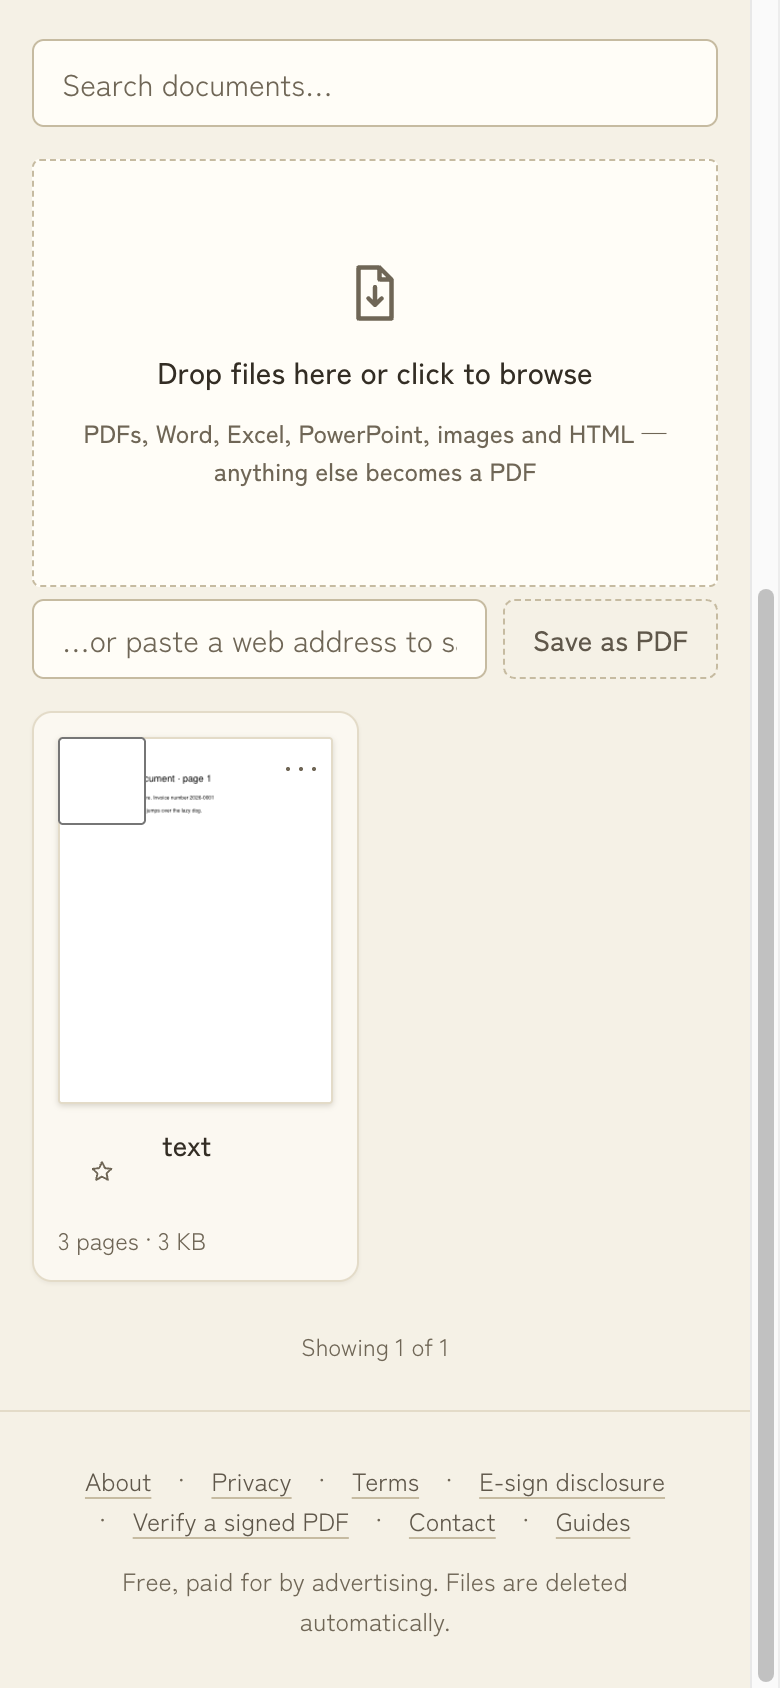
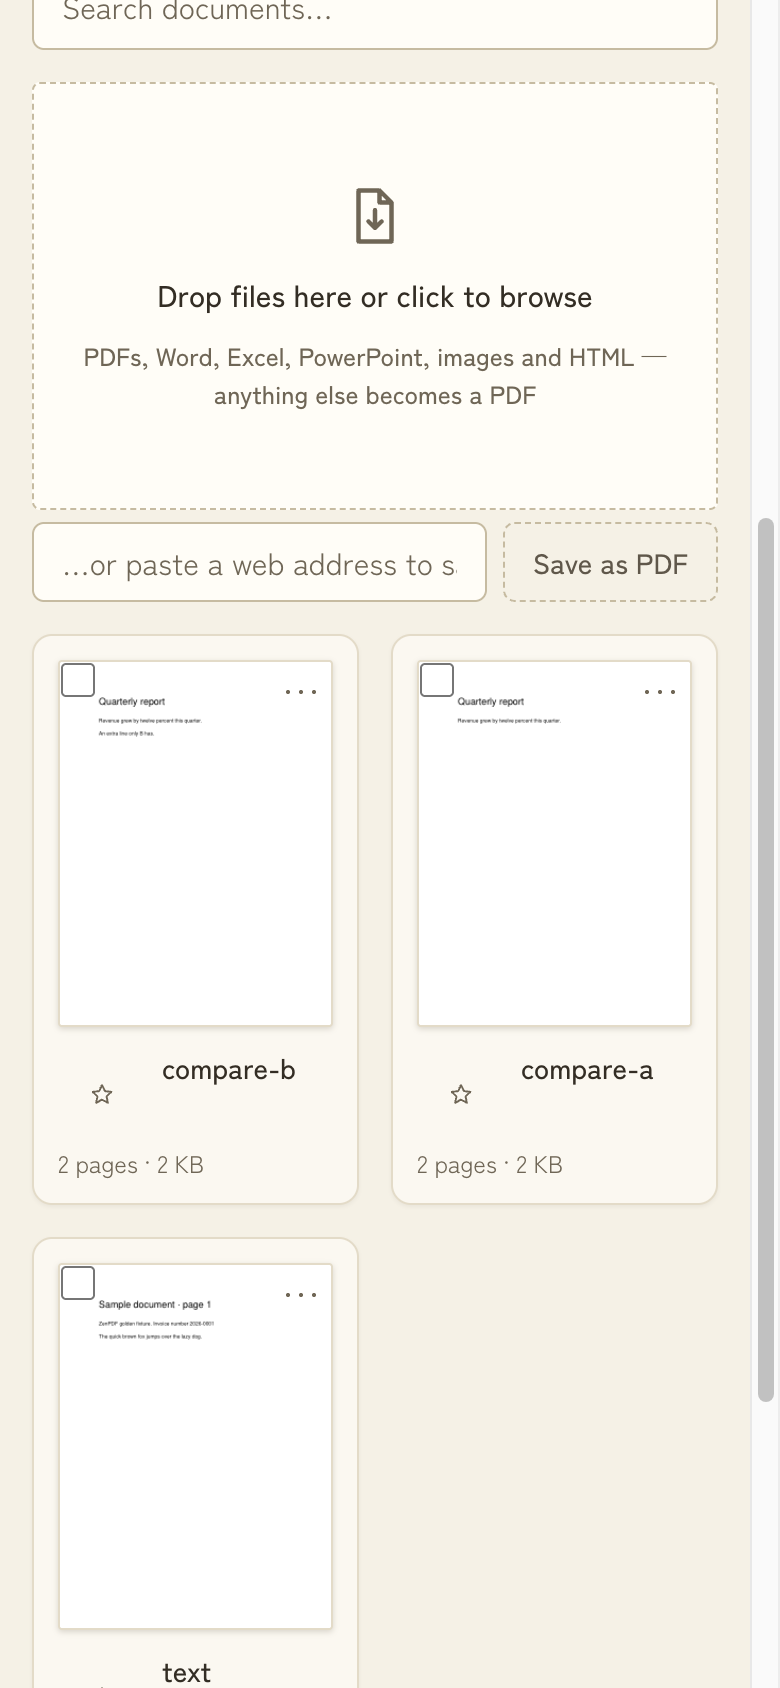
fix(dashboard): the 44 px floor is a target, not a painted checkbox
The card's select checkbox was given §6's floor as a size, and a native
checkbox scaled to 44 px paints a 44 px empty square — over the thumbnail on a
164 px card it reads as a rendering fault, not a control. Seen in the browser
in both themes, which is what the both-mode rule is for.

It sits in a 44 px `<label>` now: the platform keeps the box, the label carries
the target. That is the answer §3 already gives for the OCR rows, where the box
is 17 and the row around it is 44.

The first version of this fix moved the *desk* checkbox 6 px, which §10
forbids. Anchored per breakpoint instead: at the card corner below `md`, where
the label centres the box at (15, 15) against the (12, 12) it has always had,
and back to the desk's own inset at `md`, measured unmoved at (293, 413).

Contract §4 gains the rule and the §11 row records the reverted version too.

diff --git a/frontend/src/app/features/dashboard/dashboard.html b/frontend/src/app/features/dashboard/dashboard.html
@@ -174,9 +174,19 @@
               <span class="stamp stamp-sm pointer-events-none absolute -top-2 start-2 z-10">Just uploaded</span>
             }
             @if (!docs.trashed()) {
-              <input type="checkbox" [checked]="isSelected(doc.id)" (change)="toggleSelect(doc)"
-                     class="card-control absolute start-3 top-3 z-10" data-test="select-doc"
-                     [attr.aria-label]="'Select ' + doc.title" />
+              <!-- The 44 px target is the label, not the box. A native checkbox
+                   stretched to 44 px paints a 44 px empty square — §3 already
+                   settles this for the OCR rows: the platform keeps the box and
+                   the row around it carries the floor.
+
+                   Anchored at the card's corner below `md` so the 44 px label
+                   centres the box within a pixel or two of where it has always
+                   sat, and back to the inset the desk has used since 2026-08-06
+                   at `md`, where the label is inert and the box is at 12, 12. -->
+              <label class="card-control absolute start-0 top-0 z-10 cursor-pointer md:start-3 md:top-3">
+                <input type="checkbox" [checked]="isSelected(doc.id)" (change)="toggleSelect(doc)"
+                       data-test="select-doc" [attr.aria-label]="'Select ' + doc.title" />
+              </label>
             }
             <button class="card-control rounded-1 text-ink-faint hover:bg-bg hover:text-ink-strong absolute end-1.5 top-1.5 z-10 flex h-7 w-7 items-center justify-center"
                     (click)="toggleMenu(doc.id)" aria-label="More actions" data-test="doc-menu">

diff --git a/frontend/src/styles.scss b/frontend/src/styles.scss
@@ -181,7 +181,14 @@ small, .muted { color: var(--color-ink-muted); }
    Measured at 390 px before the rule: the ⋯ menu 28 × 28, the star 15 × 15 and
    the select checkbox 17 × 17 — three overlapping targets on a card that is
    itself only 164 px wide. They keep their desk size, where a pointer and
-   `:hover` do the work the finger cannot. */
+   `:hover` do the work the finger cannot.
+
+   The floor is a *target*, not a paint. Sizing the select checkbox itself to
+   44 px was tried and reverted the same session: a native checkbox scaled to
+   44 px draws a 44 px empty square, which on a 164 px card over the thumbnail
+   reads as a rendering fault. So the checkbox is wrapped in a `<label>` that
+   carries this class instead — the same answer §3 already gives for the OCR
+   rows, where the box stays 17 px and the row around it is 44. */
 @media (max-width: 767px) {
   .card-control {
     min-inline-size: 44px;
@@ -190,7 +197,6 @@ small, .muted { color: var(--color-ink-muted); }
     align-items: center;
     justify-content: center;
   }
-  input.card-control { inline-size: 44px; block-size: 44px; }
 }
 
 /* The landing masthead (§3, §4 compact landing 2026-08-10): on `/` only, the

diff --git a/docs/design/design-instructions.md b/docs/design/design-instructions.md
@@ -304,7 +304,7 @@ Every surface, including unmocked ones. Compose only from §3 components.
 - **Landing `/`** *(mockups 01, 10 — superseded by the compact landing 2026-08-10, see `2026-08-10-compact-landing.md`; the contract wins)*: marketing header carrying the masthead h1 (§3) → filter row, 32 px under the header: type-to-filter input at start (max-width 380 px; filters the 24 cards by name/synonyms, hides empty groups, shows a calm empty line; pure client-side) + compact one-line folded-sheet trust strip at end (the three facts verbatim, 13 px muted, hairline separators; wraps under the filter on narrow viewports) → six kicker-headed groups (Organize 7 · Edit & annotate 4 · Convert & OCR 6 · Optimize & review 3 · Protect 3 · Sign 1) of icon+name tool cards, 3-up (2-up mobile) → landing ad frame → footer. There is no hero block. No other CTAs; the directory is the hero.
 - **Tool page `/<slug>`** *(02, 03, 11)*: marketing header; 720 px column; existing H1 + meta description line; widget card = dropzone → picked-file rows (name, size, Remove ghost) → min-files hint when short → **options row, where the tool has one** → full-width primary CTA (existing `cta` text) → retention line. **Options row (added 2026-08-18):** a tool whose result depends on a choice the visitor alone can make asks for it here — never by picking a default and hiding the choice in the workspace. It is composed only from §3 parts: a labelled `.input` with `.field-hint` and a permanently-present `.field-error` line, and `.cfield` choice rows for a mode. It is 24 px under the file rows, disables the CTA while the answer is empty or unparseable, and states the rule in the hint rather than after a failed run. Today: `/extract-pdf-pages` (pages + one-PDF/per-page) and `/delete-pdf-pages` (pages). Anything a tool can decide for itself stays decided — the options row is for the visitor's questions, not the engine's. Running: the breath + counting copy replaces the CTA. Result: stamp + one-line summary, result rows (Download primary-sm, Open in workspace secondary-sm), retention line, tool-result ad frame, "Do another one" ghost, guest keep-note (hairline box, fact + register link). Below: existing intro paragraphs and FAQ (reading width), footer.
 - **Workspace `/app/doc/:id`** *(04, 05)*: the workspace bar (§3) is the **single owner of every editing affordance — defect D3**. The pdf.js (ngx-extended-pdf-viewer) toolbar is reduced by visibility config to exactly: **zoom out/in, zoom select, page up/down + page number, and find**. Hidden: pdf.js download, print, open-file, rotate, draw/ink editor, text editor, stamp editor, presentation, scrolling/spread menus, sidebar toggle (our rail replaces it) — rotate lives only in Organize, download only in our bar, annotation only in Annotate. View mode: left rail (Pages / Outline / History tabs), canvas center. Organize: toolbar row (N selected · Rotate · Delete · Duplicate · Extract · Insert blank · Crop · Scale · N-up · "Drag pages to reorder") over a 6-up thumbnail grid on the backdrop; selection = 2 px accent outline + corner seal tick. Annotate: left tool palette (§3 tool palette button — the 17 entries, every tool the mode can be in, including `image_stamp`), colour/width/opacity (+font size, stamp picker contextually), custom stamp upload; center page bar (page nav, zoom, unsaved badge, Save primary-sm, Flatten secondary-sm); right comments rail. Dialogs (Split/Compress/Scale/N-up/Insert) per §3 modals. **First paint rule (defect D7): initial zoom fit-to-width, content centered, backdrop `--color-canvas-backdrop` — for every page size and for RTL documents; no small-and-clipped first render.** The workspace **fills the viewport height**: its host is a flex item of the shell's `main` (`flex min-h-0 flex-1 flex-col`), because a host with `height: auto` around a child asking for `h-full` is circular and sized the whole screen to its content. Panes and the phone rule per §3 workspace panes. Annotate also carries **Undo / Redo** in its page bar (⌘Z / ⇧⌘Z, skipped while a field has focus): markup is batched locally until Save, so it needs an undo of its own, separate from the bar's version-level Undo. *(2026-08-21)* **Every editing surface now does** — Edit, Forms' builder, Protect's redact tab, Sign and the sign request builder each carry Undo / Redo over their own staged store, because each of them batches locally until it commits. Edit's covers its **staged text-block edits only**, and its title says so: everything else Edit does is dispatched immediately and appends a version, which is the bar's Undo. **Arrow keys nudge the selection** by 0.25 % of the page (Shift ×10) through the same channel a drag uses; they only take the key when something is selected, so they otherwise still scroll the pane. Edit's overlay items are read-models of the file — text blocks, images, links — so they render selection **without resize grips** and do not nudge. **Below `md` the whole screen re-composes** — page first, drawers, a bottom bar — per §3 **Phone workspace**; **mockups 04 and 05 are desktop references only** and say nothing about the phone, which is where the contract wins.
-- **Dashboard `/app/dashboard`** *(06)*: app header; three columns ≥ xl (sidebar 224 / main / rail 300). **Below `xl` it is one column** *(added 2026-08-24 — §4 has said "≥ xl" since 2026-08-06 and the sidebar never honoured it, keeping its 224 px at every width; at 390 that left the main column **110 px** and a file card **47**, with the ⋯ menu sitting on top of the thumbnail that opens the document, so a person with an account could not open their own file on a phone)*: the sidebar becomes a **full-width band above the files**, its three cards laid out as a wrapping row so they sit side by side where there is room and stack where there is not. The ad rail is already `hidden … xl:block` and stays that way. The band costs about 310 px above the files at 390 — the files are what the person came for, so a compact form of it is worth designing; that is recorded, not done here. Sidebar cards: storage meter; folders (All + user folders + new-folder input); Starred / Trash toggles. Main: search + (when ≥2 selected) "Merge N" primary; dropzone (imports anything convertible — keep existing hint copy); import-from-URL row; converting/uploading transient rows; file-card grid 4-up (D2 rule in §3); Load more (secondary) + "Showing X of Y". Rail: dashboard ad frame. Mobile: one inline ad card after the third card (existing behavior). Claim banner (post-signup) = success-surface strip, "Got it" dismiss.
+- **Dashboard `/app/dashboard`** *(06)*: app header; three columns ≥ xl (sidebar 224 / main / rail 300). **Below `xl` it is one column** *(added 2026-08-24 — §4 has said "≥ xl" since 2026-08-06 and the sidebar never honoured it, keeping its 224 px at every width; at 390 that left the main column **110 px** and a file card **47**, with the ⋯ menu sitting on top of the thumbnail that opens the document, so a person with an account could not open their own file on a phone)*: the sidebar becomes a **full-width band above the files**, its three cards laid out as a wrapping row so they sit side by side where there is room and stack where there is not. The ad rail is already `hidden … xl:block` and stays that way. The band costs about 310 px above the files at 390 — the files are what the person came for, so a compact form of it is worth designing; that is recorded, not done here. **The card's own three controls — ⋯, star and the select checkbox — meet §6's 44 px floor below `md`** *(added 2026-08-24; measured at 390 px before the rule: **28 × 28**, **15 × 15** and **17 × 17**, three overlapping targets on a 164 px card)*. They keep their desk sizes, where a pointer and `:hover` do what a finger cannot. **The floor is the target, not the paint**: sizing the checkbox itself to 44 px was tried and reverted the same day, because a native checkbox scaled to 44 px draws a 44 px empty square over the thumbnail and reads as a rendering fault — it is wrapped in a 44 px `<label>` instead, which is the answer §3 already gives for the OCR rows. Sidebar cards: storage meter; folders (All + user folders + new-folder input); Starred / Trash toggles. Main: search + (when ≥2 selected) "Merge N" primary; dropzone (imports anything convertible — keep existing hint copy); import-from-URL row; converting/uploading transient rows; file-card grid 4-up (D2 rule in §3); Load more (secondary) + "Showing X of Y". Rail: dashboard ad frame. Mobile: one inline ad card after the third card (existing behavior). Claim banner (post-signup) = success-surface strip, "Got it" dismiss.
 - **Sign request builder `/app/sign/new/:docId`** *(unmocked)*: workspace-style top bar (← back to the document, "Send for signature", doc title) + step dots 1–4 (filled dot = `--color-ink-strong`). Step 1 recipients: rows (email, name, role select, order number, ✕ ghost) + "Add someone" secondary + role explainer 11 px faint + "Next: place fields" primary. Step 2: left rail (recipient pills with per-recipient dot colors — recipient colors are content, exempt from the one-accent rule; field-type grid; Required checkbox) + page canvas with drag-to-place boxes. Step 3: message textarea, expiry/reminder number inputs. Step 4 review: recipient list, freeze note, email-verification gate (warning surface) when unverified, **"Send it" as a standard vermilion primary**.
 - **Sign request list `/app/sign`** *(unmocked)*: 768 px column; ← Documents; h1 "Sent for signature"; request rows (title, envelope code faint, status badge, recipient chips). Empty state sheet: "Nothing sent yet. Open a document and choose 'Send for signature'."
 - **Sign request detail `/app/sign/:id`** *(unmocked)*: title, envelope + status line; Progress/Audit `.seg`; recipient rows with status badges and decline reasons; completed → Download signed (primary) + Certificate (secondary) + SHA-256 fingerprint 11 px faint; sent → Send a reminder / Cancel the request (secondary / destructive). Audit tab: chain-intact notice (success/danger surface) + plain `.tbl`.
@@ -420,6 +420,6 @@ Reconstructed from `git log -- docs/design/design-instructions.md`. The dates ar
 | 2026-08-23 | *(this change)* | §3 notice | **Inline notice (`.notice`)** — the pattern ten surfaces were already drawing by hand (`settings.ts`, `request-builder.html`, four workspace panes, the audit-chain line) in three different sizes and two different border conventions, with no spec anywhere. Written down as one component with four tone modifiers, and with the rule that **the tone never carries the words**: `--color-ink` measures ≥ 10.7:1 on every tone surface in both modes, where the tone colour on 13.5 px body copy would fail §1 as well as being harder to read. Also written down is what a notice is *not* — a toast (for what just happened and can be missed), a `.sheet` (one per screen, trust and empty states), or an input's error line. Commissioned by two backend-debt items that each needed a standing explanation next to the thing it is about: the signed copy that could not be appended to its source document, and the trashed document that cannot be deleted forever. **Not a grounding-list entry**: like the thumbnail-tile states above, this specifies presentation of state the product already had, not a new affordance — nothing new is drawn that a person can press. |
 | 2026-08-24 | `db66806` | grounding, §3 footer, §4, §10 | **Phase 11 — the reading surfaces.** `/contact`, `/guides` and `/guides/<slug>` join the grounding list; §3's footer goes from five links to **seven** (Contact and Guides on the end, order fixed and justified, wrap behaviour at 390 px specced), with the **ceremony footer and the legal crosslink row explicitly excluded**; §4 gains **two new screen entries** — guides index and guide article — both on the legal pages' 640 px reading column, with a byline row, the `.notice` for guide 4's not-legal-advice caution, related tools reusing the landing directory's `.tool-grid`/`.tool-card` rather than a new component, and **no ads**; §10's invariant list gains the three routes and the seven-link footer, and records that the footer was five until today. Sanctioned by the owner in commissioning Phase 11 (`development-plans/phase-11-adsense-review.md`), which names these four sites as the amendment sites. **Also fixed here:** the `.notice` row above had been separated from this table by a blank line, which ends a Markdown table — the register's newest row was rendering as literal pipes. Reattached, because a register nobody can read is the thing §11 was added to prevent. |
 | 2026-08-24 | *(this change)* | §3 workspace panes, §3 headers, §3 **Phone workspace** (new), §4 workspace, §11 | **The phone workspace — drawers and a bottom bar.** The stacking rule §3 has carried since 2026-08-20 is replaced by a designed layout: **page first**, a **persistent two-row bottom bar** (drawer openers + the mode's Undo/Redo + its primary; nine icon-over-label mode buttons that scroll inside themselves, `.seg` semantics and `.seg`'s ink-stamp selected treatment), and the rails as **bottom-sheet drawers** over the page — one at a time, handle + title + 44 px close, Escape and scrim-tap, CDK focus trap, body scroll locked, `translateY` only so `prefers-reduced-motion` leaves them fully legible. §3 headers gain the phone workspace bar (back · title · meta · **More** sheet · toggle) and the reason the theme toggle does **not** go in the sheet. §4 records that **mockups 04/05 are desktop references only**. Two refusals recorded with their reasons: **no mode opens its drawer by default**, and **the Annotate palette stays a drawer rather than becoming a compact bottom row** — seventeen tools, only a handful with a glyph on the §2 grid, plus colour/width/opacity/font-size/stamp controls that are not a row, and a third bottom row would leave a 390 × 844 screen under half its height for the document. **Not a grounding-list entry**, and this is the entry §11's pending list was waiting for: what needed sanctioning was the *layout*, and §3 now specifies it. A drawer is a rail you open, a bottom bar is the mode nav moved, and the two genuinely new controls — the drawer opener and `⋯` More — are navigation to affordances that already existed. Nothing new is drawn that a person can press. **Also fixed here, again:** the Phase 11 row above had come loose from the table a second time, by the same blank line whose removal that row records. Reattached and given its merge sha; if it happens a third time the register needs a lint, not another sentence. |
-| 2026-08-24 | *(this change)* | §2, §3 inputs, §3 workspace panes, §3 headers, §3 Phone workspace, §4 dashboard, §5, §11 | **The follow-ups the phone workspace exposed** — six items, of which four correct something this contract itself got wrong the day before. §3 workspace panes: the page's render width is **measured from the pane**, not seeded from the viewport, because the viewport knows neither the rails nor the pane's own scrollbar — and because only Annotate was seeding at all: **Edit and Forms drew at 750 px, Protect and Sign at 680, Compare at 420 × 2, inside a 327 px pane**, with no zoom control in five of the six. §3 gains **`.input-compact`**, a named 36 px field that is 44 in a sheet, which lets fourteen templates drop an `!important` that was never fighting what §3 Phone workspace claimed it was — that paragraph's "three number/select fields" is corrected to fourteen, with the real cause. §3 headers: the app-shell nav **wraps below `md`**, because its min-content floor is 417 px with the address at zero width and 503 for a guest — every variant overflowed, which is the 546 px document `/app/dashboard` and `/app/settings` were both drawing at 390. §4 dashboard: **one column below `xl`**, which §4 has said since 2026-08-06 and the implementation never honoured — at 390 the main column was 110 px and a file card **47**, its ⋯ menu on top of the button that opens the document. §5: the viewer's editor radiogroup is hidden (six `role="radio"` hosts with no `aria-checked`, left in the tree by a static attribute Angular copies to the host) and its **152 positive tabindexes** are flattened; the zoom buttons' 24 px target is recorded upstream rather than patched, with the reason. **Not a grounding-list entry** except `.input-compact`, which is a new pattern and is listed above. |
+| 2026-08-24 | *(this change)* | §2, §3 inputs, §3 workspace panes, §3 headers, §3 Phone workspace, §4 dashboard, §5, §11 | **The follow-ups the phone workspace exposed** — six items, of which four correct something this contract itself got wrong the day before. §3 workspace panes: the page's render width is **measured from the pane**, not seeded from the viewport, because the viewport knows neither the rails nor the pane's own scrollbar — and because only Annotate was seeding at all: **Edit and Forms drew at 750 px, Protect and Sign at 680, Compare at 420 × 2, inside a 327 px pane**, with no zoom control in five of the six. §3 gains **`.input-compact`**, a named 36 px field that is 44 in a sheet, which lets fourteen templates drop an `!important` that was never fighting what §3 Phone workspace claimed it was — that paragraph's "three number/select fields" is corrected to fourteen, with the real cause. §3 headers: the app-shell nav **wraps below `md`**, because its min-content floor is 417 px with the address at zero width and 503 for a guest — every variant overflowed, which is the 546 px document `/app/dashboard` and `/app/settings` were both drawing at 390. §4 dashboard: **one column below `xl`**, which §4 has said since 2026-08-06 and the implementation never honoured — at 390 the main column was 110 px and a file card **47**, its ⋯ menu on top of the button that opens the document; and the card's ⋯, star and select checkbox take §6's floor below `md`, **as a target and not as a paint** — the 44 px checkbox was implemented, seen in the browser, and reverted to a 44 px label around a platform-sized box. §5: the viewer's editor radiogroup is hidden (six `role="radio"` hosts with no `aria-checked`, left in the tree by a static attribute Angular copies to the host) and its **152 positive tabindexes** are flattened; the zoom buttons' 24 px target is recorded upstream rather than patched, with the reason. **Not a grounding-list entry** except `.input-compact`, which is a new pattern and is listed above. |
 
 **Pending, not yet sanctioned:** nothing. *(The phone workspace left this list on 2026-08-24 — it is specced in §3 **Phone workspace** and logged in the row above. Phase 11's `/contact` and `/guides` left it earlier the same day.)*

diff --git a/docs/reviews/evidence/phone-follow-ups/README.md b/docs/reviews/evidence/phone-follow-ups/README.md
@@ -35,11 +35,20 @@ against `visualViewport` rather than pinning 390).
 | header height at 390 | one line, overflowing | **106** (two lines) |
 | main column | 110 | 343 |
 | a file card | **47** | **164** |
-| ⋯ / star / select | 28 × 28 / 15 × 15 / 17 × 17 | **44 × 44** each |
+| ⋯ / star | 28 × 28 / 15 × 15 | **44 × 44** each |
+| select checkbox | 17 × 17, with a 17 × 17 target | 17 × 17, in a **44 × 44** label |
 
 The nav's second line starts at y = 46 under the brand at y = 14; the address ellipsises
 (`scrollWidth > clientWidth`) and carries its full value in `title`. At 1280 the header
 is back to 58 px on one line and the sidebar to its 224 px column.
+
+**The checkbox is the one place the floor is a target and not a size**, and `03`/`04` are
+the second version of that. Sizing the input itself to 44 px was implemented, seen in the
+browser and reverted: a native checkbox stretched to 44 px paints a 44 px empty square
+over the thumbnail. It sits in a 44 px `<label>` now, anchored at the card corner below
+`md` so the box centres at **(15, 15)** against the **(12, 12)** it has always had — and
+on the desk at 1280 it is measured back at exactly **(293, 413)**, unmoved, because the
+first fix had shifted it 6 px there.
 
 The ⋯ menu no longer sits on the button that opens the document. That was never a
 separate defect, just arithmetic downstream of 47 px: `elementFromPoint` at the centre of

diff --git a/development-plans/PROGRESS.md b/development-plans/PROGRESS.md
@@ -1343,6 +1343,18 @@ docblocks and their `@Component`, orphaning all five — and that the drawer hea
 `data-drawer` discriminator had nothing asserting it, which is not what "fixed and
 asserted" means. Both fixed.
 
+**And one the browser found after the gate was green.** §6's 44 px floor was put on the
+file card's ⋯, star and select checkbox as a *size*; a native checkbox scaled to 44 px
+paints a 44 px empty square, which over a thumbnail on a 164 px card reads as a rendering
+fault rather than a control. The floor is a **target**, not a paint: the checkbox is
+wrapped in a 44 px `<label>` instead — which is the answer §3 already gives for the OCR
+rows, where the box stays 17 px and the row around it is 44 — and anchored at the card's
+corner below `md` so the box centres within 3 px of where it has always sat. The first
+attempt at that moved the **desk** checkbox 6 px, which §10 forbids; it is positioned per
+breakpoint now, and the desk is measured back at the 12 px inset it has had since
+2026-08-06. §4 and the §11 row record all of it, including the reverted version — this is
+the third thing this branch shipped, saw in a browser, and undid.
+
 **The environment, again, and this time it is fixed.** Five specs went red at
 `registerAndLogin` and at the first save with no failed job rows — the documented
 2026-08-22 connection-budget row, **fourth measurement**: 99 idle Postgres connections
